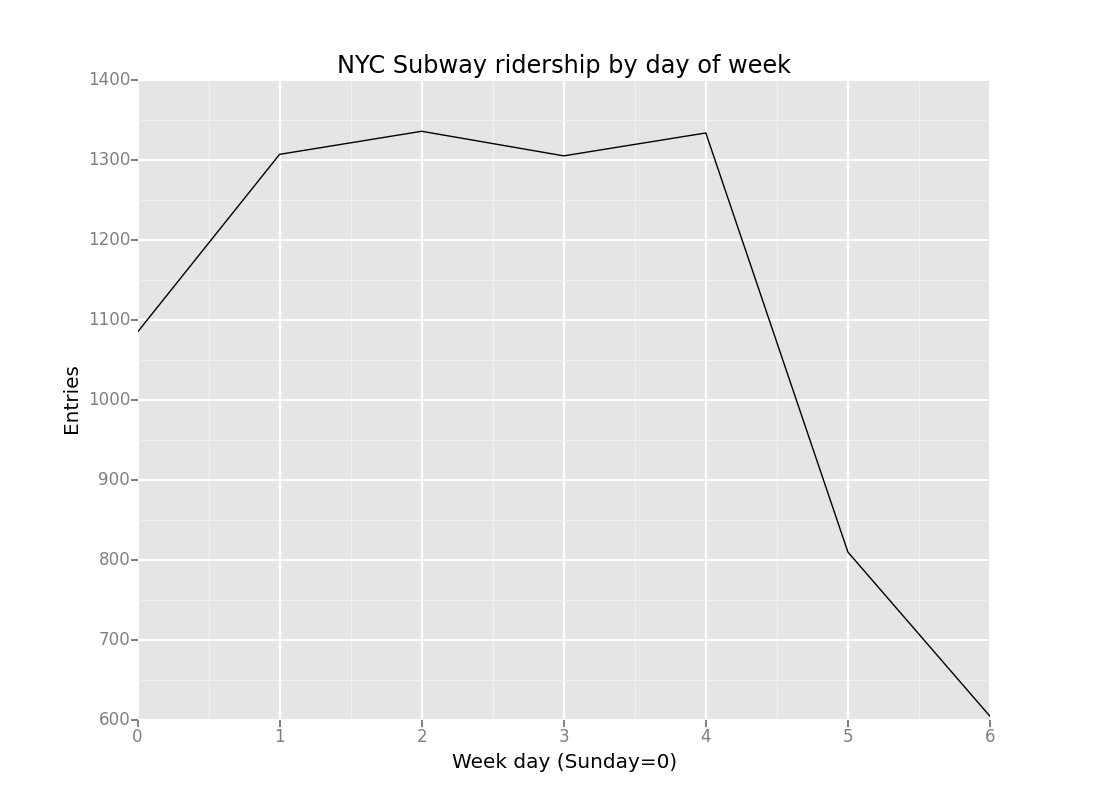
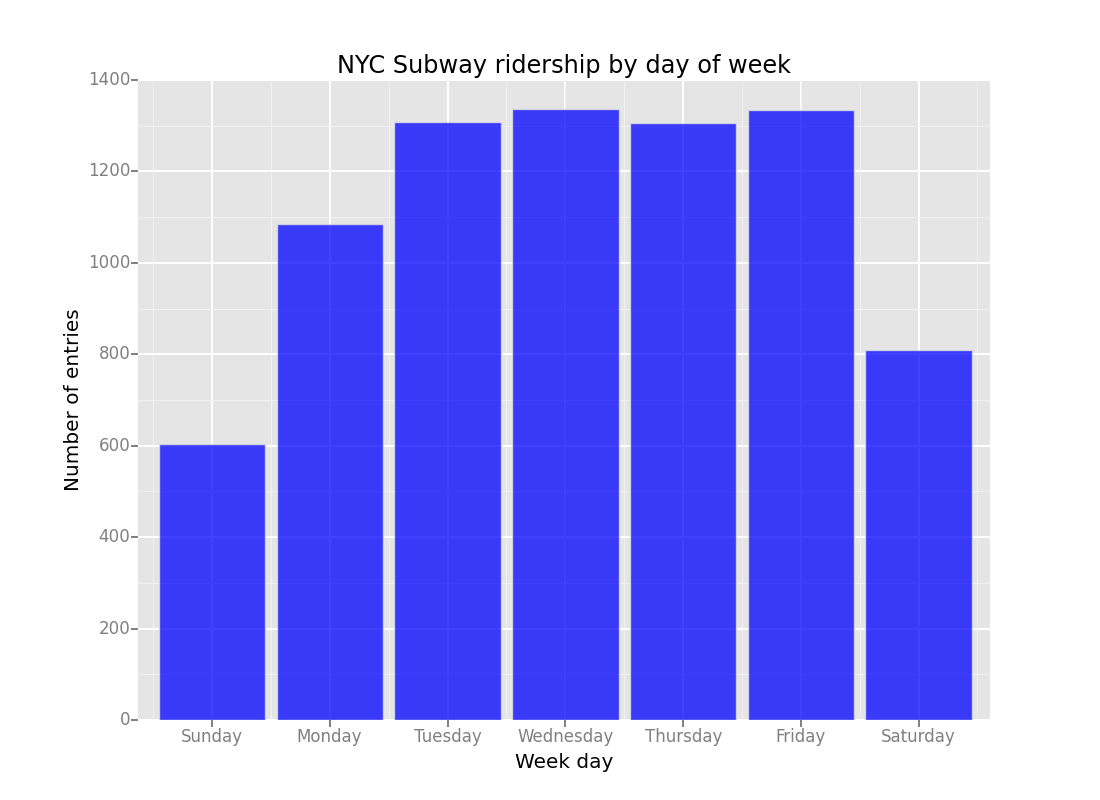
Fix up P2 based on feedback

diff --git a/P2_Analyzing_the_NYC_Subway_Dataset/ps4/visualizing_subway_data.py b/P2_Analyzing_the_NYC_Subway_Dataset/ps4/visualizing_subway_data.py
@@ -20,19 +20,20 @@ def plot_weather_data_2(turnstile_weather):
     '''
     This function plots the trend of ridership by day of the week.
     '''
-    df = turnstile_weather
-    df['weekday'] = df['DATEn'].map(lambda x:datetime.strptime(x, '%Y-%m-%d').weekday())
-    weekday_agg = df.groupby(['weekday'], as_index=False).aggregate(mean)
+    df = turnstile_weather[['DATEn','ENTRIESn_hourly']]
+    df['weekday'] = df['DATEn'].map(lambda x:datetime.strptime(x, '%Y-%m-%d').strftime('%w'))
+    weekday_agg = df.groupby(['weekday'], as_index=False).mean()
 
     plot = ggplot(weekday_agg, aes(x='weekday', y='ENTRIESn_hourly')) +\
-           geom_line() +\
-           ggtitle('NYC Subway ridership by day of week') + xlab('Week day (Sunday=0)') + ylab('Entries')
+           geom_bar(stat='identity',fill='blue',alpha=0.75) +\
+           scale_x_discrete(labels = ['Sunday', 'Monday', 'Tuesday', 'Wednesday', 'Thursday', 'Friday', 'Saturday']) +\
+           ggtitle('NYC Subway ridership by day of week') + xlab('Week day') + ylab('Number of entries')
     return plot
 
 if __name__ == '__main__':
     df = pandas.DataFrame.from_csv('turnstile_data_master_with_weather.csv')
 
-    print plot_weather_data_1(df)
-    raw_input("Press enter to continue...")
+#    print plot_weather_data_1(df)
+#    raw_input("Press enter to continue...")
 
     print plot_weather_data_2(df)

diff --git a/P2_Analyzing_the_NYC_Subway_Dataset/short_questions/short_question_answers.md b/P2_Analyzing_the_NYC_Subway_Dataset/short_questions/short_question_answers.md
@@ -18,12 +18,12 @@ The non-parametric Mann-Whitney test was applicable given the non-normal distrib
 | Mean for non-rainy population                    |       1,090.28 |
 | Percent difference in mean (rainy vs. non-rainy) |           1.4% |
 | U-statistic                                      |1,924,409,167.0 |
-| p-value                                          |          0.025 |
-
+| p-value (one-sided)                              |    0.024999912 |
+| p-value (two-sided)                              |    0.049999825 |
 
 ####1.4 What is the significance and interpretation of these results?
 
-The null hypothesis is rejected. While the percent difference between the means are very small (1.4%), the U-statistic is very, very large at 1,924,409,167.0, which is close to its theoretical maximum, and the p-value of 0.025 is less than the p-critical of 0.05. There is a statistical difference between the ridership on rainy and non-rainy days.
+The null hypothesis is rejected. While the percent difference between the means are very small (1.4%), the U-statistic is very, very large at 1,924,409,167.0, which is close to its theoretical maximum, and the two-sided p-value of 0.049 is less than the p-critical of 0.05. There is a statistical difference between the ridership on rainy and non-rainy days.
 
 
 ###Section 2. Linear Regression
@@ -50,29 +50,33 @@ The default feature set of rain, precipitation, hour and mean temperature were p
 
 ####2.6 What does this R2 value mean for the goodness of fit for your regression model? Do you think this linear model to predict ridership is appropriate for this dataset, given this R2  value?
 
-The R2 value of 0.463 (46.3%) is a low measure for the goodness of fit of variability in our regression model. This model may be appropriate for *ball-park* estimations. Perhaps, advance studies on the drivers of readership coupled with polynomial regressions may be prove to be a better fit.
+The R2 value of 0.463 (46.3%) is a low measure for the goodness of fit of variability in our regression model. This model may be appropriate for *ball-park* estimations. Perhaps, advance studies on the drivers of readership coupled with polynomial regressions may be prove to be a better fit. The adequacy of the linear regression can also be examined through the distribution of residuals, the difference between the predicted and the actual values.
+
+![Image of residual points](https://raw.githubusercontent.com/arvin-dwarka/Udacity_Data_Analyst/master/P2_Analyzing_the_NYC_Subway_Dataset/ps3/figure_2.png)
+
+The histogram of the residuals has long tails, which suggests that there are some very large residuals a reason to question our linear regression model.
 
 
 ###Section 3. Visualization
 
 ####3.1 One visualization should contain two histograms: one of  ENTRIESn_hourly for rainy days and one of ENTRIESn_hourly for non-rainy days.
 
-![Image of histogram of ridership on rainy and non-rainy days](https://raw.githubusercontent.com/arvin-dwarka/Udacity_Data_Analyst/master/P2/ps3/figure_1.png)
+![Image of histogram of ridership on rainy and non-rainy days](https://raw.githubusercontent.com/arvin-dwarka/Udacity_Data_Analyst/master/P2_Analyzing_the_NYC_Subway_Dataset/ps3/figure_1.png)
 
 The above illustration depicts the non-normal distribution of ridership between rainy and non-rainy days. It should be noted that the two populations are not of equal sizes. Section 1.3 dives deeper into the statistical analysis of these two populations.
 
 ####3.2 One visualization can be more freeform. 
 
-![Image of ridership over the weekdays](https://raw.githubusercontent.com/arvin-dwarka/Udacity_Data_Analyst/master/P2/ps4/figure_2.png)
+![Image of ridership over the weekdays](https://raw.githubusercontent.com/arvin-dwarka/Udacity_Data_Analyst/master/P2_Analyzing_the_NYC_Subway_Dataset/ps4/figure_2.png)
 
-The above diagram shows the mean trend in ridership over the course of a week. It can be observed that ridership is high from Monday to Thursday, and dips drastically Friday till the lowest level on Saturday, but picking up again on Sunday. This is inline with the thought that people would use the subway mostly during the working days. Hence, weekdays were used as a feature in Section 2.3.
+The above diagram shows the mean trend in ridership over the course of a week. It can be observed that ridership is high during the weekdays (Monday to Friday) and the lowest on the weekends (Saturday and Sunday). This is inline with the thought that people would use the subway mostly during the normal working days. Hence, weekdays were used as a feature in Section 2.3.
 
 
 ###Section 4. Conclusion
 
 ####4.1 From your analysis and interpretation of the data, do more people ride the NYC subway when it is raining or when it is not raining?  
 
-Based on the Mann-Whitney U-test producing a p-value of 0.025, it can be concluded with high certainty that more people ride the NYC subway on rainy days. It is very likely and understandable that rain is a motivator for people to seek refuge by using the subway instead of other modes of travel, such as walking and biking.
+Based on the Mann-Whitney U-test producing a very high U-statistic and a p-value of 0.049, it can be concluded with high certainty that more people ride the NYC subway on rainy days. It is very likely and understandable that rain is a motivator for people to seek refuge by using the subway instead of other modes of travel, such as walking and biking.
 
 ####4.2 What analyses lead you to this conclusion? You should use results from both your statistical tests and your linear regression to support your analysis.
 
